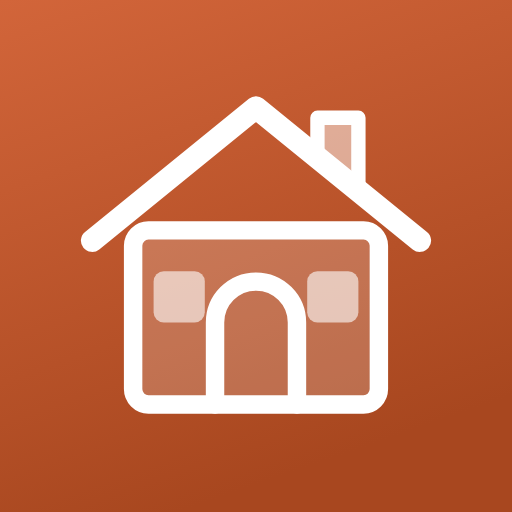
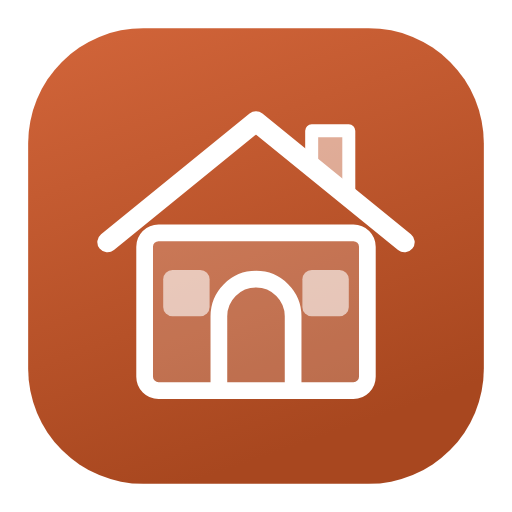
fix: l'icône « any » retrouve sa forme propre et ses coins transparents
Correction de ma correction précédente. J'avais rendu les DEUX variantes plein
bord, alors qu'elles n'ont pas le même cahier des charges :

- `maskable` est découpée par la plateforme : elle doit aller plein bord, et le
  logo tenir dans le cercle de sécurité de 80 %. C'était juste.
- `any` est affichée TELLE QUELLE par les lanceurs qui ne la reconnaissent pas
  comme adaptative. Un carré opaque plein bord se retrouve alors encadré par le
  fond que le lanceur dessine derrière : un carré dans un carré.

L'icône d'origine avait donc la bonne intention — forme arrondie et marge — mais
en beige opaque plutôt qu'en transparent. En supprimant le beige j'avais aussi
supprimé la forme.

Les variantes `any` (192, 512 et le favicon 32) portent désormais leur propre
forme arrondie sur fond transparent, avec une marge de 5,5 %. Vérifié dans le
PNG : colorType 6 (RGBA) et alpha nul dans les coins. Les variantes `maskable`
restent plein bord en RGB opaque, tout comme apple-touch-icon — iOS masque
toujours et ignore la transparence, qu'il compose sur du noir.

Cache des service workers incrémenté une nouvelle fois (v2 → v3), les fichiers
d'icônes ayant changé.

Claude-Session: https://claude.ai/code/session_01VxRmoniqPvofimhHM657eS

diff --git a/sw-gh.js b/sw-gh.js
@@ -1,7 +1,7 @@
 // Service worker Logis — GitHub Pages (cdricpl.github.io/Logis/)
 // Version allégée : pas de /api/logis, chemins relatifs, notifications via SW.
 // v26.3 : nom de cache incrémenté pour purger les anciennes icônes.
-const CACHE = "logis-gh-v2";
+const CACHE = "logis-gh-v3";
 const PRECACHE = ["./", "./index.html", "./manifest.webmanifest",
   "./icon-32.png", "./icon-192.png", "./icon-512.png",
   "./icon-maskable-192.png", "./icon-maskable-512.png", "./apple-touch-icon.png"];

diff --git a/sw.js b/sw.js
@@ -2,7 +2,7 @@
 // v26.3 : nom de cache incrémenté. Le handler « activate » purge toute clé
 // différente, ce qui force le rechargement des icônes redessinées — sans cela,
 // l'ancienne icône resterait servie depuis le cache après déploiement.
-const CACHE = "logis-v2";
+const CACHE = "logis-v3";
 const PRECACHE = [
   "/",
   "/api/logis",
